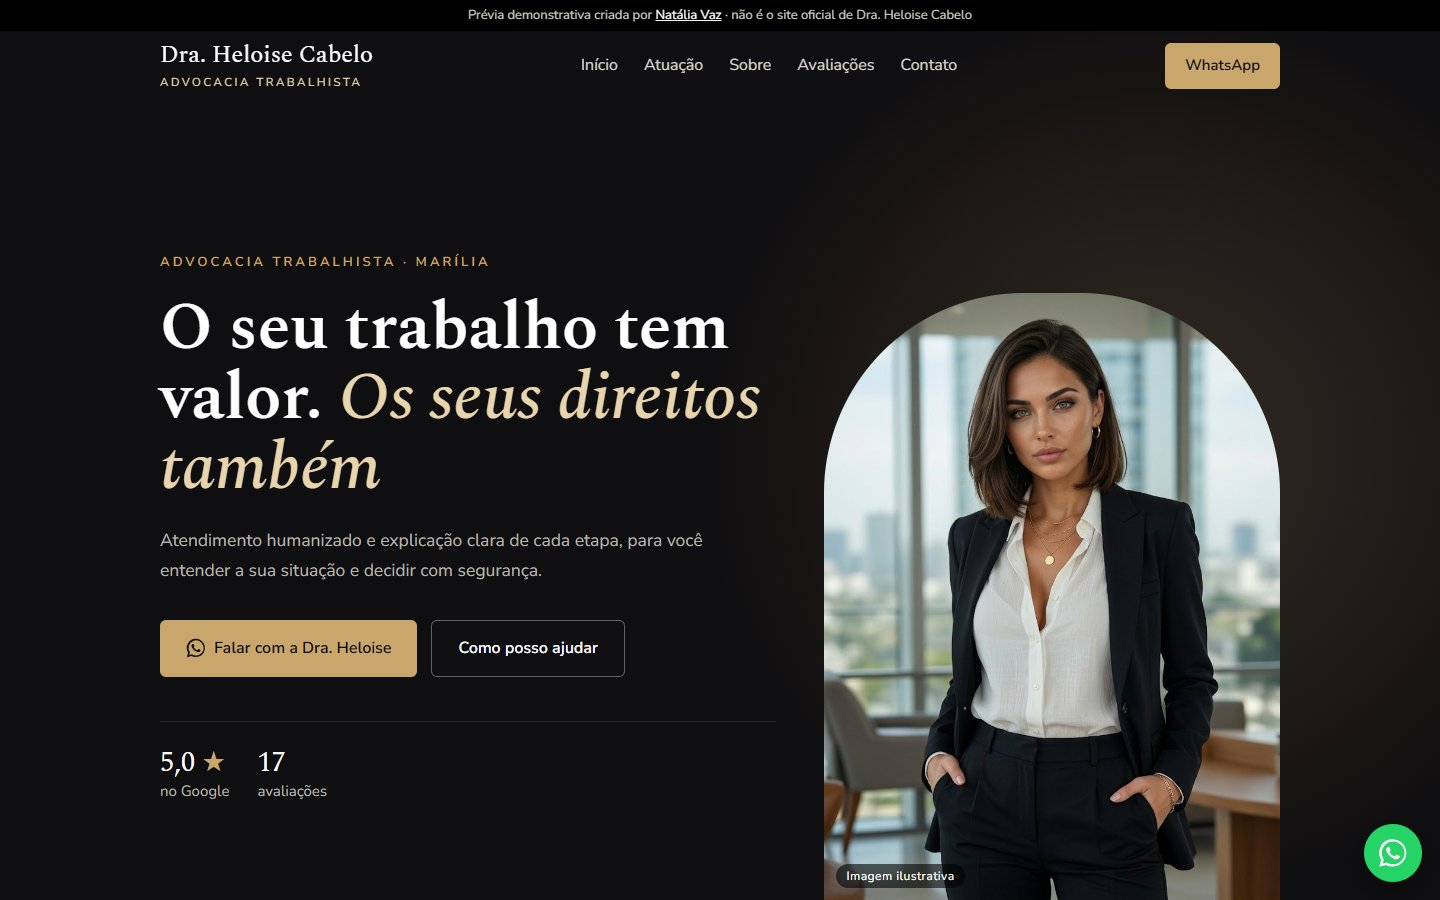
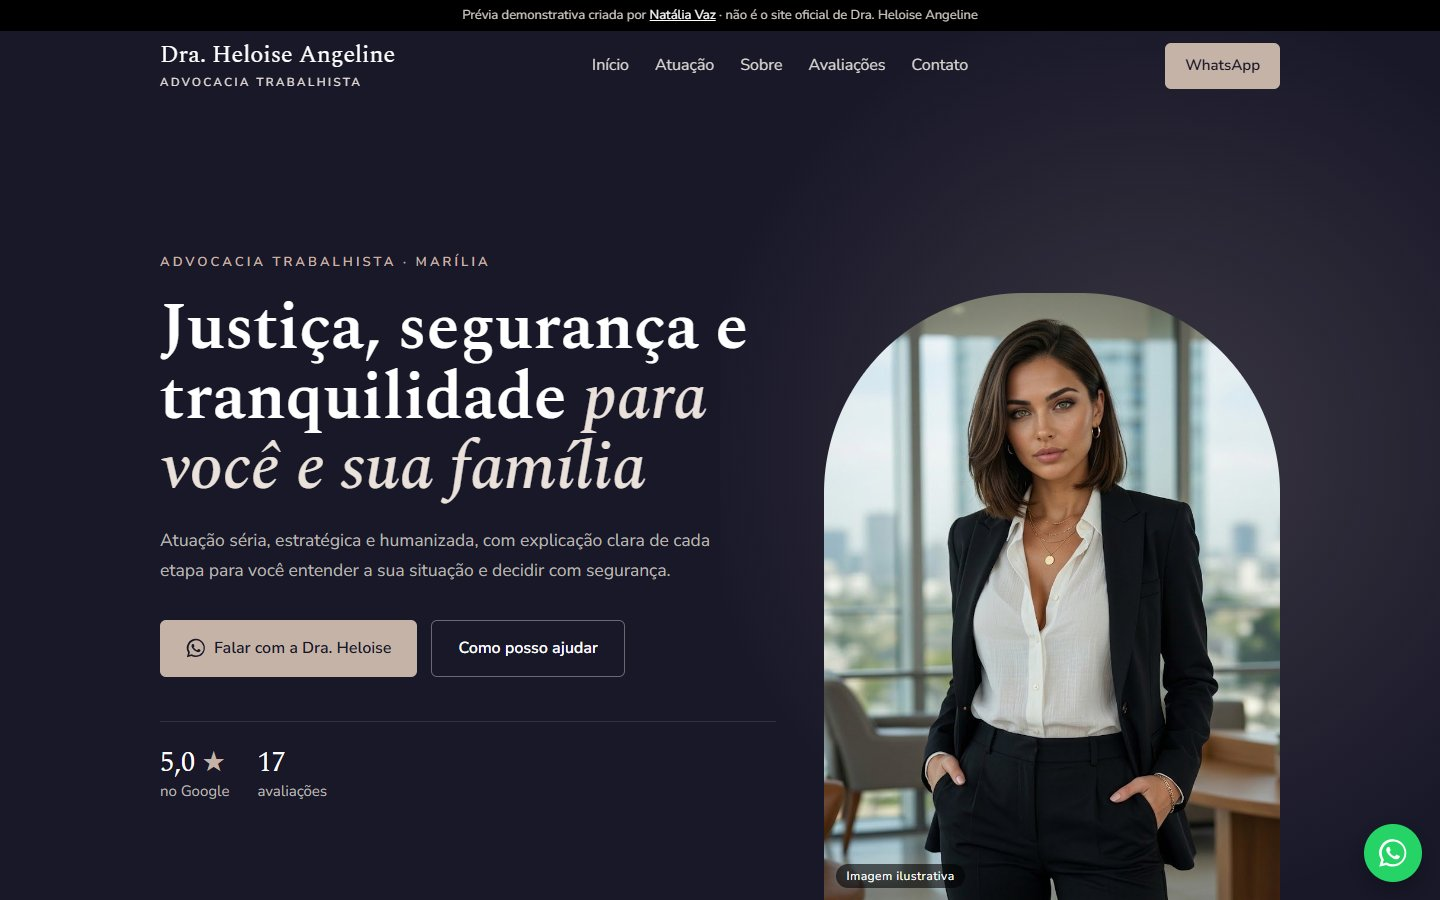
Heloise Angeline: áreas, cores e dados reais do Instagram

diff --git a/heloise-cabelo/index.html b/heloise-cabelo/index.html
@@ -12,13 +12,13 @@
 <meta charset="UTF-8">
 <meta name="viewport" content="width=device-width, initial-scale=1">
 <meta name="robots" content="noindex">
-<title>Dra. Heloise Cabelo | Advocacia trabalhista em Marília</title>
-<meta name="description" content="Dra. Heloise Cabelo, advocacia trabalhista em Marília. 5,0 no Google, 17 avaliações.">
+<title>Dra. Heloise Angeline | Advocacia trabalhista em Marília</title>
+<meta name="description" content="Dra. Heloise Angeline, advocacia em Marília: trabalho, família, consumidor, previdenciário e criminal. 5,0 no Google, 17 avaliações.">
 <!-- Prévia do link no WhatsApp/redes: assets/print.jpg gerado por ferramentas/vitrine.py -->
 <meta property="og:type" content="website">
 <meta property="og:locale" content="pt_BR">
-<meta property="og:title" content="Dra. Heloise Cabelo | Advocacia trabalhista em Marília">
-<meta property="og:description" content="Dra. Heloise Cabelo, advocacia trabalhista em Marília. 5,0 no Google, 17 avaliações.">
+<meta property="og:title" content="Dra. Heloise Angeline | Advocacia trabalhista em Marília">
+<meta property="og:description" content="Dra. Heloise Angeline, advocacia em Marília: trabalho, família, consumidor, previdenciário e criminal. 5,0 no Google, 17 avaliações.">
 <meta property="og:url" content="https://eunataliavaz-sys.github.io/sites-prospeccao/heloise-cabelo/">
 <meta property="og:image" content="https://eunataliavaz-sys.github.io/sites-prospeccao/heloise-cabelo/assets/print.jpg">
 <meta property="og:image:width" content="1440">
@@ -29,15 +29,15 @@
 <link href="https://fonts.googleapis.com/css2?family=Spectral:ital,wght@0,400;0,500;0,600;0,700;1,400;1,500&family=Nunito+Sans:wght@300;400;500;600&display=swap" rel="stylesheet">
 <style>
 :root{
---dark:#0f0e10;
-  --brand:#1b1a1d;
-  --accent:#c9a66b;
-  --accent-soft:#e8d5ad;
-  --bg:#f5f3ef;
+--dark:#191829;
+  --brand:#262438;
+  --accent:#c6b3a8;
+  --accent-soft:#e9e1da;
+  --bg:#f7f3ef;
   --surface:#ffffff;
-  --text:#232125;
-  --muted:#625f63;
-  --line:rgba(27,26,29,.12);
+  --text:#232130;
+  --muted:#5f5b68;
+  --line:rgba(25,24,41,.12);
   --serif:'Spectral',Georgia,serif;
   --sans:'Nunito Sans',system-ui,sans-serif;
   --wa:#25d366;
@@ -250,6 +250,7 @@ html{--gap-secao:clamp(64px,8vw,96px)}
 .hero h1 i{font-weight:500}
 .hero{min-height:100vh;display:flex;align-items:flex-end}
 .hero-photo img{object-position:50% 10%}
+.section:not(.dark) .kicker,.section:not(.dark) .ico,.section:not(.dark) dt,.score .stars,.review .stars{color:#8a6c60}
 @media (max-width:860px){.hero .kicker{letter-spacing:.14em}.brand small{letter-spacing:.14em}.hero{display:block;min-height:0}}
 
 </style>
@@ -296,9 +297,9 @@ html{--gap-secao:clamp(64px,8vw,96px)}
 </svg>
 
 <nav class="nav" id="nav">
-  <div class="demo-bar">Prévia demonstrativa criada por <a href="https://eunataliavaz-sys.github.io/sites-prospeccao/natalia-vaz/" target="_blank" rel="noopener">Natália Vaz</a> · não é o site oficial de Dra. Heloise Cabelo</div>
+  <div class="demo-bar">Prévia demonstrativa criada por <a href="https://eunataliavaz-sys.github.io/sites-prospeccao/natalia-vaz/" target="_blank" rel="noopener">Natália Vaz</a> · não é o site oficial de Dra. Heloise Angeline</div>
   <div class="wrap">
-    <a href="#inicio" class="brand"><b>Dra. Heloise Cabelo</b><small>Advocacia trabalhista</small></a>
+    <a href="#inicio" class="brand"><b>Dra. Heloise Angeline</b><small>Advocacia trabalhista</small></a>
     <!-- Menu: um link para CADA seção que existir na página -->
     <ul id="menu">
       <li><a href="#inicio">Início</a></li>
@@ -318,8 +319,8 @@ html{--gap-secao:clamp(64px,8vw,96px)}
   <div class="wrap">
     <div class="hero-text reveal">
       <span class="kicker">Advocacia trabalhista · Marília</span>
-      <h1>O seu trabalho tem valor. <i>Os seus direitos também</i></h1>
-      <p>Atendimento humanizado e explicação clara de cada etapa, para você entender a sua situação e decidir com segurança.</p>
+      <h1>Justiça, segurança e tranquilidade <i>para você e sua família</i></h1>
+      <p>Atuação séria, estratégica e humanizada, com explicação clara de cada etapa para você entender a sua situação e decidir com segurança.</p>
       <div class="ctas">
         <a class="btn" href="https://wa.me/5518997777225?text=Ol%C3%A1%2C%20Dra.%20Heloise%21%20Vi%20o%20seu%20site%20e%20preciso%20de%20uma%20orienta%C3%A7%C3%A3o." target="_blank" rel="noopener"><svg class="ic" aria-hidden="true"><use href="#i-whatsapp"/></svg>Falar com a Dra. Heloise</a>
         <a class="btn ghost" href="#servicos">Como posso ajudar</a>
@@ -341,40 +342,35 @@ html{--gap-secao:clamp(64px,8vw,96px)}
     <div class="head reveal">
       <span class="kicker">Serviços</span>
       <h2>Como posso ajudar</h2>
-      <p>Atuação dedicada ao Direito do Trabalho, com orientação para trabalhadores e empresas.</p>
+      <p>Atuação nas principais áreas do Direito para proteger os seus direitos.</p>
     </div>
     <div class="services">
       <article class="card reveal">
-        <span class="ico"><svg class="ic" aria-hidden="true"><use href="#i-file"/></svg></span>
-        <h3>Rescisão e verbas</h3>
-        <p>Conferência do acerto e orientação sobre aviso prévio, férias, 13º salário e FGTS.</p>
-      </article>
-      <article class="card reveal">
-        <span class="ico"><svg class="ic" aria-hidden="true"><use href="#i-clock"/></svg></span>
-        <h3>Horas extras e jornada</h3>
-        <p>Análise de horas não pagas, intervalos e adicionais da sua rotina de trabalho.</p>
-      </article>
-      <article class="card reveal">
         <span class="ico"><svg class="ic" aria-hidden="true"><use href="#i-briefcase"/></svg></span>
-        <h3>Registro em carteira</h3>
-        <p>Orientação para quem trabalhou sem registro e quer ter o vínculo reconhecido.</p>
-      </article>
-      <article class="card reveal">
-        <span class="ico"><svg class="ic" aria-hidden="true"><use href="#i-shield"/></svg></span>
-        <h3>Assédio no trabalho</h3>
-        <p>Acolhimento e orientação sobre como agir em situações de assédio moral ou sexual.</p>
+        <h3>Trabalho</h3>
+        <p>Rescisões, direitos trabalhistas, verbas e condições de trabalho.</p>
       </article>
       <article class="card reveal">
         <span class="ico"><svg class="ic" aria-hidden="true"><use href="#i-users"/></svg></span>
-        <h3>Acidente e doença do trabalho</h3>
-        <p>Orientação sobre estabilidade, afastamento e os direitos de quem se acidentou ou adoeceu.</p>
+        <h3>Família</h3>
+        <p>Divórcios, guarda, pensão alimentícia e demais questões familiares.</p>
       </article>
       <article class="card reveal">
-        <span class="ico"><svg class="ic" aria-hidden="true"><use href="#i-building"/></svg></span>
-        <h3>Consultoria para empresas</h3>
-        <p>Orientação preventiva para empresas sobre as relações de trabalho do dia a dia.</p>
+        <span class="ico"><svg class="ic" aria-hidden="true"><use href="#i-bag"/></svg></span>
+        <h3>Consumidor</h3>
+        <p>Defesa contra cobranças indevidas, vícios e relações de consumo.</p>
       </article>
-      <article class="card card-cta d3 t2 reveal">
+      <article class="card reveal">
+        <span class="ico"><svg class="ic" aria-hidden="true"><use href="#i-umbrella"/></svg></span>
+        <h3>Previdenciário</h3>
+        <p>Aposentadorias, benefícios do INSS e revisões.</p>
+      </article>
+      <article class="card reveal">
+        <span class="ico"><svg class="ic" aria-hidden="true"><use href="#i-scale"/></svg></span>
+        <h3>Criminal</h3>
+        <p>Defesa em processos criminais e garantia dos seus direitos.</p>
+      </article>
+      <article class="card card-cta d1 t1 reveal">
         <div><h3>Não encontrou o seu caso?</h3><p>Conte a sua situação pelo WhatsApp e receba uma orientação sobre o melhor caminho.</p></div>
         <a class="btn" href="https://wa.me/5518997777225?text=Ol%C3%A1%2C%20Dra.%20Heloise%21%20Vi%20o%20seu%20site%20e%20preciso%20de%20uma%20orienta%C3%A7%C3%A3o." target="_blank" rel="noopener"><svg class="ic" aria-hidden="true"><use href="#i-whatsapp"/></svg>Falar com a Dra. Heloise</a>
       </article>
@@ -390,10 +386,10 @@ html{--gap-secao:clamp(64px,8vw,96px)}
     </div>
     <div class="about-head reveal">
       <span class="kicker">Sobre</span>
-      <h2>Atendimento claro, ético e humano</h2>
+      <h2>Atendimento claro, ético e humanizado</h2>
     </div>
     <div class="about-body reveal">
-      <p>Heloise Angeline Cabelo é advogada trabalhista e atende no Jardim Maria Izabel, em Marília, orientando trabalhadores e empresas.</p>
+      <p>Heloise Angeline Cabelo é advogada, pós-graduada em Direito do Trabalho e membro da Comissão de Direito do Trabalho da OAB Marília. Atende no Jardim Maria Izabel, em Marília.</p>
       <p>Os clientes destacam o atendimento humanizado, a pontualidade, a ética e a clareza ao explicar cada situação.</p>
       <a class="btn" href="https://wa.me/5518997777225?text=Ol%C3%A1%2C%20Dra.%20Heloise%21%20Vi%20o%20seu%20site%20e%20preciso%20de%20uma%20orienta%C3%A7%C3%A3o." target="_blank" rel="noopener">Falar com a Dra. Heloise</a>
     </div>
@@ -455,19 +451,20 @@ html{--gap-secao:clamp(64px,8vw,96px)}
     </div>
     <div class="contact">
       <div class="info reveal">
-        <h3>Dra. Heloise Cabelo</h3>
+        <h3>Dra. Heloise Angeline</h3>
         <dl>
           <div><span class="ico"><svg class="ic" aria-hidden="true"><use href="#i-whatsapp"/></svg></span><div><dt>WhatsApp</dt><dd><a href="https://wa.me/5518997777225" target="_blank" rel="noopener">(18) 99777-7225</a></dd></div></div>
           <div><span class="ico"><svg class="ic" aria-hidden="true"><use href="#i-pin"/></svg></span><div><dt>Endereço</dt><dd>R. Júlio de Mesquita, 629 · Jardim Maria Izabel<br>Marília · SP · 17501-500</dd></div></div>
           <div><span class="ico"><svg class="ic" aria-hidden="true"><use href="#i-clock"/></svg></span><div><dt>Horário</dt><dd>Segunda a sexta, das 10h às 17h</dd></div></div>
           <div><div><dt>Redes sociais</dt><dd><div class="social">
+            <a href="https://www.instagram.com/draheloiseangeline/" target="_blank" rel="noopener" aria-label="Instagram"><svg class="ic" aria-hidden="true"><use href="#i-instagram"/></svg></a>
             <a href="https://wa.me/5518997777225" target="_blank" rel="noopener" aria-label="WhatsApp"><svg class="ic" aria-hidden="true"><use href="#i-whatsapp"/></svg></a>
           </div></dd></div></div>
         </dl>
         <a class="btn" href="https://wa.me/5518997777225?text=Ol%C3%A1%2C%20Dra.%20Heloise%21%20Vi%20o%20seu%20site%20e%20preciso%20de%20uma%20orienta%C3%A7%C3%A3o." target="_blank" rel="noopener">Falar com a Dra. Heloise</a>
       </div>
-      <a class="map reveal" href="https://www.google.com/maps/search/?api=1&query=Heloise+Angeline+Cabelo+Advogada+Trabalhista%2C+R.+J%C3%BAlio+de+Mesquita%2C+629+-+Jardim+Maria+Izabel%2C+Mar%C3%ADlia+-+SP%2C+17501-500" target="_blank" rel="noopener" aria-label="Abrir Dra. Heloise Cabelo no Google Maps">
-        <img src="assets/mapa.jpg" alt="Mapa com a localização de Dra. Heloise Cabelo" loading="lazy">
+      <a class="map reveal" href="https://www.google.com/maps/search/?api=1&query=Heloise+Angeline+Cabelo+Advogada+Trabalhista%2C+R.+J%C3%BAlio+de+Mesquita%2C+629+-+Jardim+Maria+Izabel%2C+Mar%C3%ADlia+-+SP%2C+17501-500" target="_blank" rel="noopener" aria-label="Abrir Dra. Heloise Angeline no Google Maps">
+        <img src="assets/mapa.jpg" alt="Mapa com a localização de Dra. Heloise Angeline" loading="lazy">
         <span class="map-btn"><svg class="ic" aria-hidden="true"><use href="#i-pin"/></svg>Abrir no Google Maps</span>
         <small>© OpenStreetMap</small>
       </a>
@@ -477,9 +474,10 @@ html{--gap-secao:clamp(64px,8vw,96px)}
 
 <footer class="foot">
   <div class="wrap">
-    <b>Dra. Heloise Cabelo</b>
+    <b>Dra. Heloise Angeline</b>
     Advocacia trabalhista · Marília
     <div class="social">
+      <a href="https://www.instagram.com/draheloiseangeline/" target="_blank" rel="noopener" aria-label="Instagram"><svg class="ic" aria-hidden="true"><use href="#i-instagram"/></svg></a>
       <a href="https://wa.me/5518997777225" target="_blank" rel="noopener" aria-label="WhatsApp"><svg class="ic" aria-hidden="true"><use href="#i-whatsapp"/></svg></a>
     </div>
     <!-- OPCIONAL (advocacia): -->
